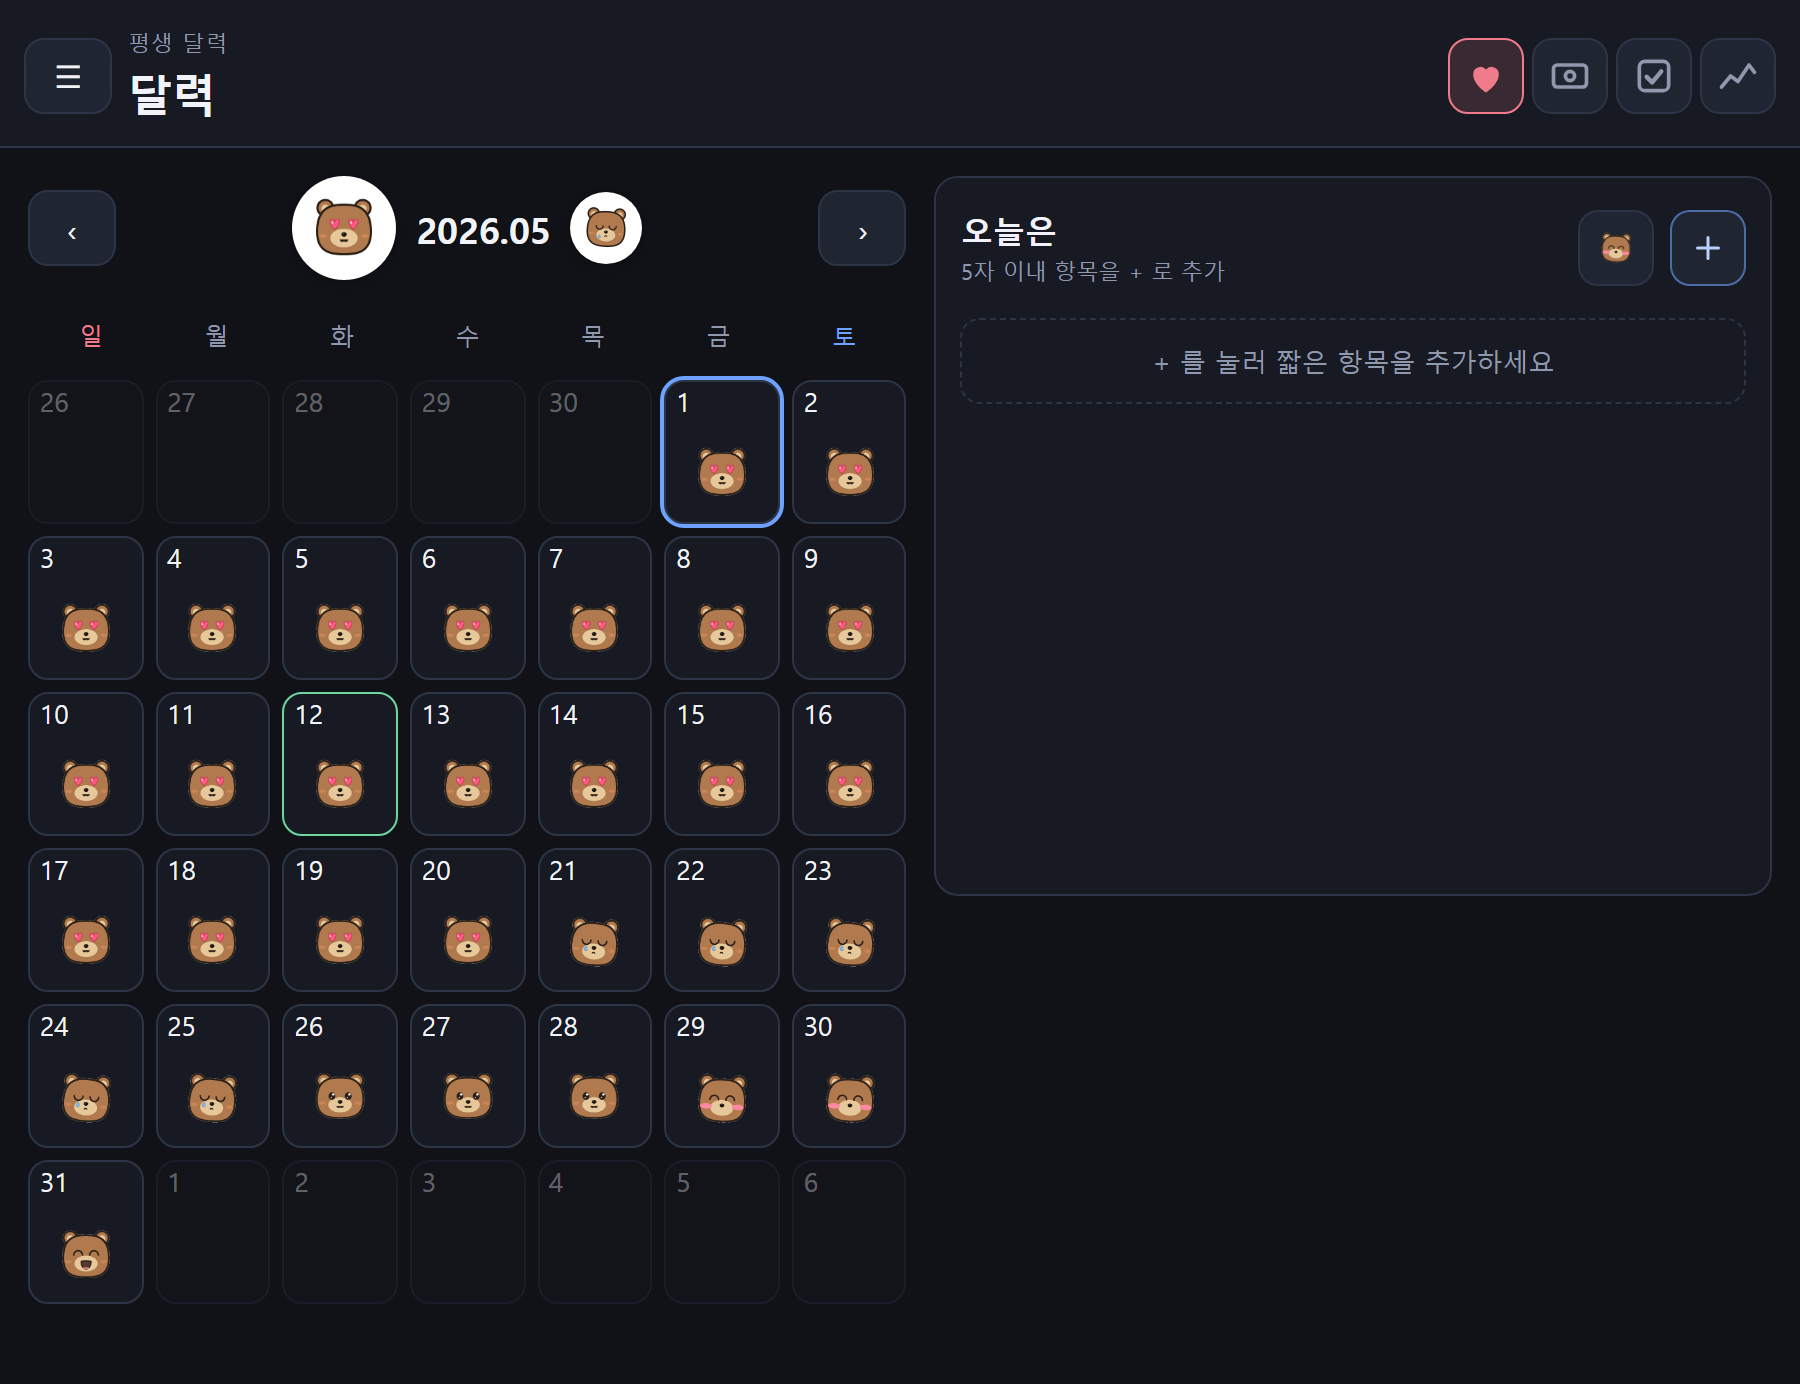
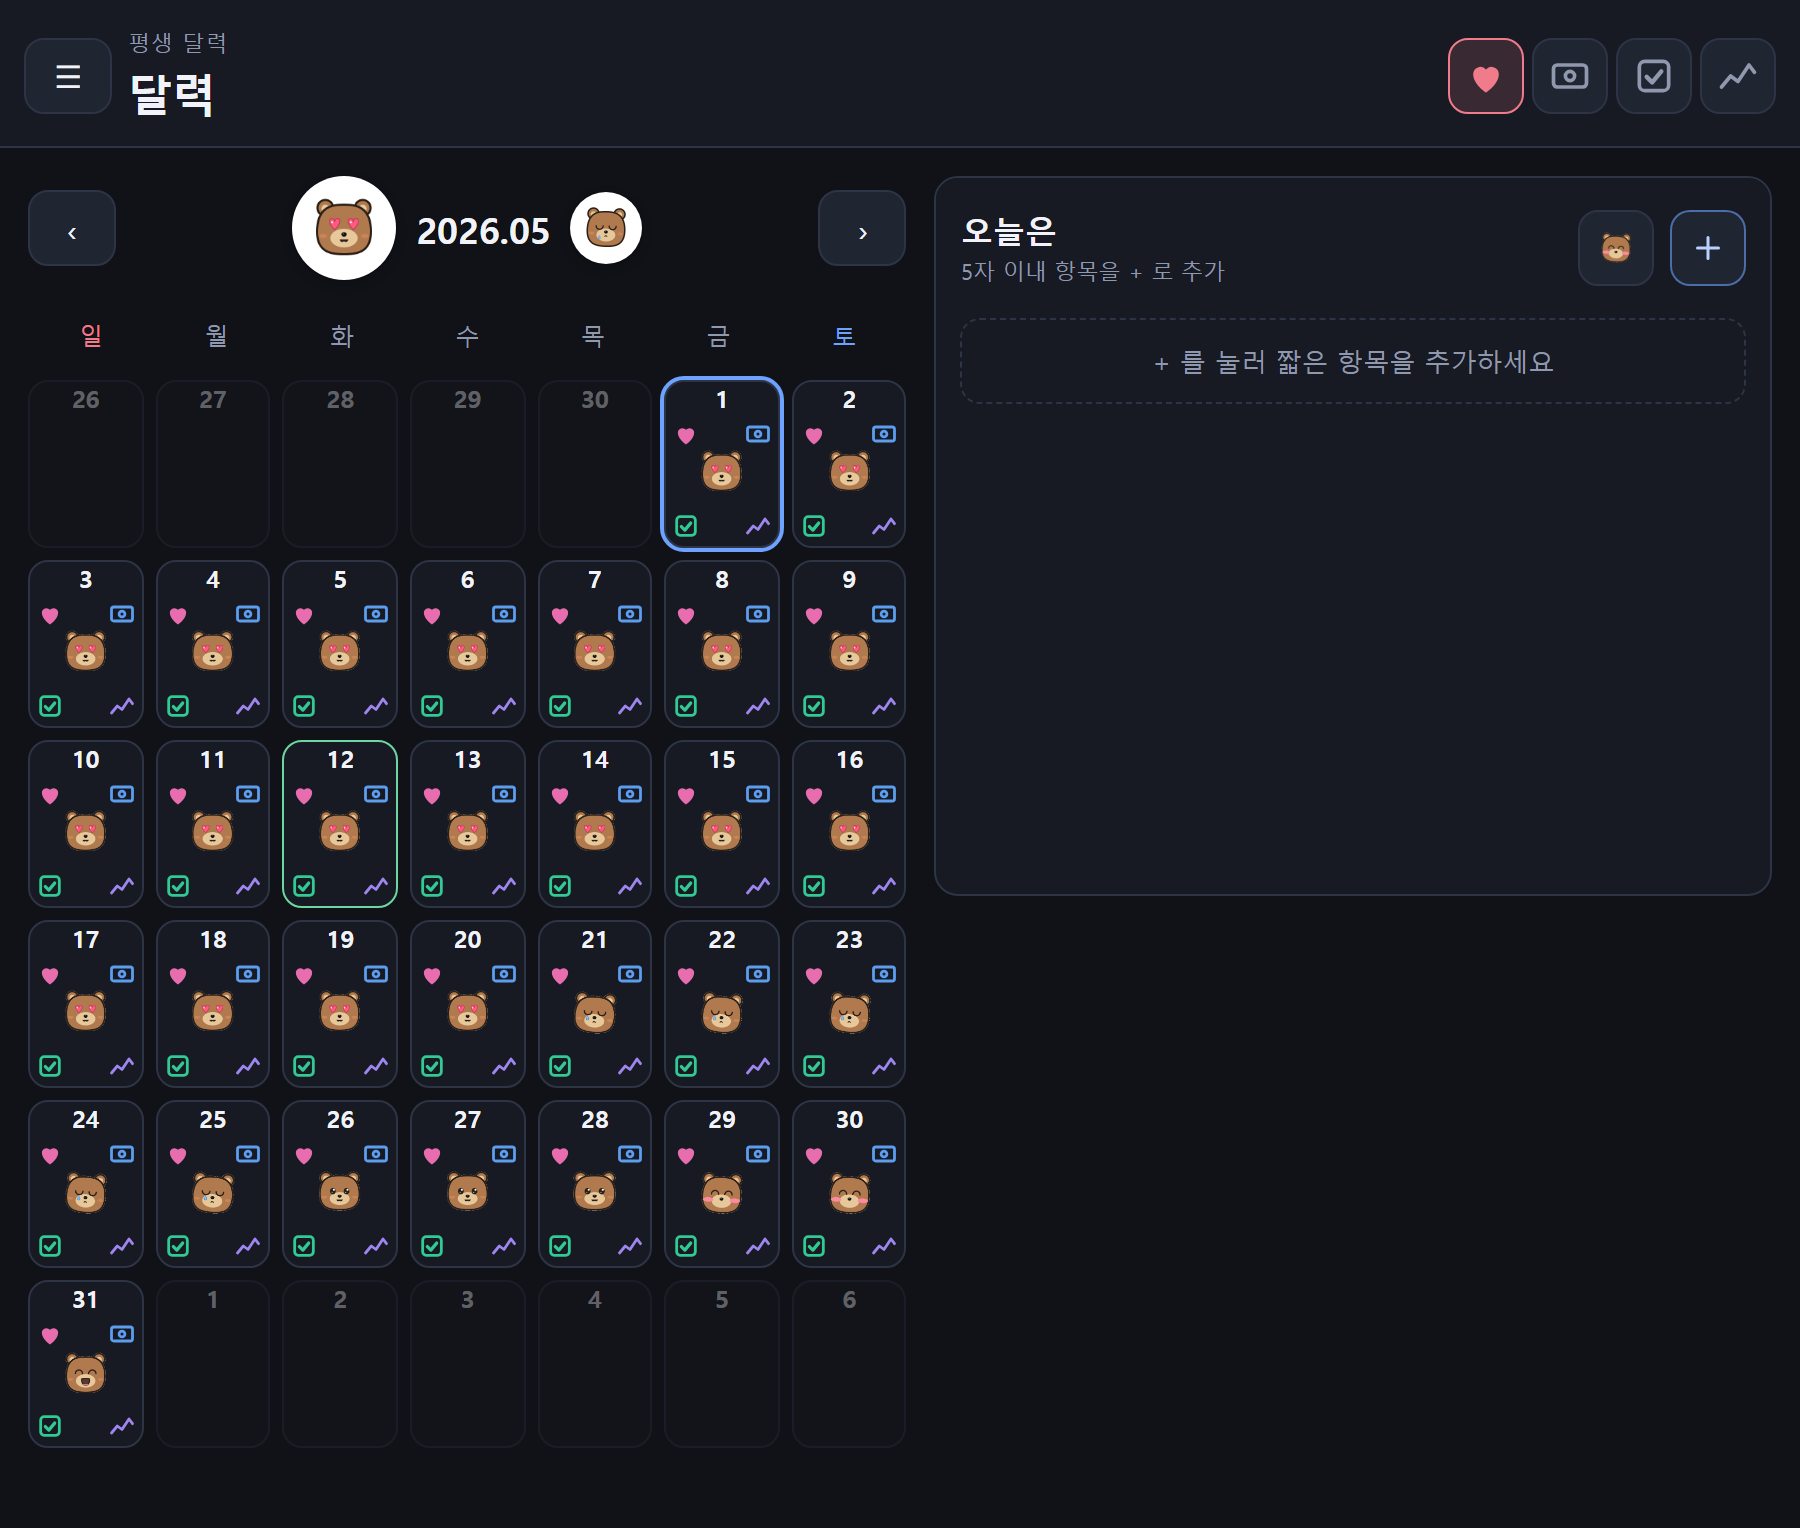
docs: highlight four-corner per-day indicators and dual month badge
- ?? ? 4 ??? ????? ? + ??? ?? ??? ??
- ?? 1?2? ?? ?? ?? ??
- ?? ?? ??? ?? ?? 1? ??

diff --git a/README.md b/README.md
@@ -72,10 +72,28 @@
 #### 이 달의 기분 배지
 
 이번 달에 가장 많이 선택한 기분이, 달력 상단 월 이름 옆에 **GIF 배지**로 살아 움직입니다.
-즉, 1일에는 비어 있지만 한 달이 흐를수록 *이 달의 나는 어떤 사람이었는가* 가 자연스럽게 한 컷으로 떠오르도록 했습니다.
+좌측에는 가장 자주 고른 1위 기분이 큰 사이즈로, 우측에는 그 다음 2위 기분이 작은 사이즈로 표시됩니다.
+한 가지 기분만 등록되어 있다면 좌·우에 같은 캐릭터가 같이 보이고, 한 개도 없는 달은 아예 표시되지 않습니다.
 
 <p align="center">
   <img src="assets/month_mood_badge.png" alt="월별 기분 배지" width="300" />
+</p>
+
+#### 한 셀에 하루를 다 보여주는 4 모서리 인디케이터
+
+각 날짜 셀의 **네 모서리**에 그날 무엇을 기록했는지 작은 컬러 아이콘으로 표시됩니다.
+실제로 글자가 한 줄이라도 적혀 있을 때만 아이콘이 켜지고, 빈 카테고리는 칸이 비워집니다.
+
+| 위치 | 카테고리 | 색 |
+|------|----------|------|
+| 좌상단 | 오늘은(메모) | 핑크 하트 |
+| 우상단 | 썼니(가계부) | 파란 지폐 |
+| 좌하단 | 했니(체크리스트) | 초록 체크 |
+| 우하단 | 스코어 | 보라 꺾은선 |
+| 가운데 | 그날의 기분(있을 때만) | 캐릭터 PNG |
+
+<p align="center">
+  <img src="assets/calendar_landscape.png" alt="가로 모드 달력 — 4 모서리 인디케이터" width="520" />
 </p>
 
 ### 6. 기록 차트 (월별 요약)
@@ -97,10 +115,6 @@
 
 휴대폰을 옆으로 돌리면 더 많은 정보가 한 화면에 들어옵니다.
 **달력 화면**은 좌측 캘린더 + 우측 카드 2단으로, **기록 차트**는 4개 카드가 **2×2 격자**로 펼쳐집니다.
-
-<p align="center">
-  <img src="assets/calendar_landscape.png" alt="가로 모드 달력 화면" width="520" />
-</p>
 
 <p align="center">
   <img src="assets/chart_monthly_landscape.png" alt="가로 모드 기록 차트" width="520" />
